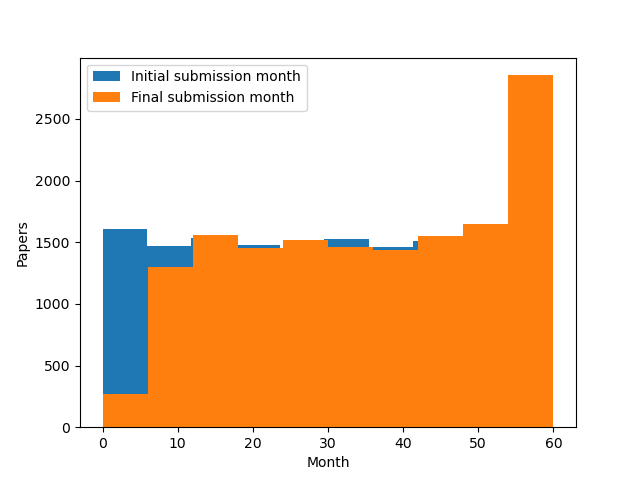
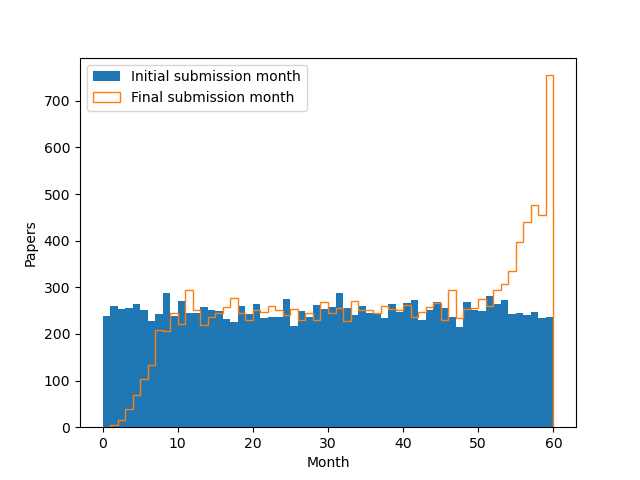
'update webpage'

diff --git a/static/blog/index.html b/static/blog/index.html
@@ -88,8 +88,8 @@ if __name__ == "__main__":
 
     initial, final = simulate()
 
-    plt.hist(initial, label="Initial submission month")
-    plt.hist(final, label="Final submission month")
+    plt.hist(initial, bins=end_month, range=(0, end_month), label="Initial submission month")
+    plt.hist(final, bins=end_month, range=(0, end_month), histtype="step", label="Final submission month")
     plt.legend()
     plt.xlabel("Month")
     plt.ylabel("Papers")
@@ -97,6 +97,7 @@ if __name__ == "__main__":
 </code>
 </pre>
 <p>Tags: <a href='tag_code.html'>code</a>, <a href='tag_ai.html'>ai</a>, <a href='tag_arxiv.html'>arxiv</a>, <a href='tag_statistics.html'>statistics</a></p>
+
 
 <!-- text end -->
 <h3><a class="ablack" href="mp3-player.html">
@@ -432,6 +433,7 @@ if __name__ == "__main__":
 
 
 <p>Tags: <a href='tag_mp3.html'>mp3</a>, <a href='tag_smartphone.html'>smartphone</a>, <a href='tag_podcasts.html'>podcasts</a>, <a href='tag_code.html'>code</a></p>
+
 
 
 

diff --git a/static/blog/tag_code.html b/static/blog/tag_code.html
@@ -88,8 +88,8 @@ if __name__ == "__main__":
 
     initial, final = simulate()
 
-    plt.hist(initial, label="Initial submission month")
-    plt.hist(final, label="Final submission month")
+    plt.hist(initial, bins=end_month, range=(0, end_month), label="Initial submission month")
+    plt.hist(final, bins=end_month, range=(0, end_month), histtype="step", label="Final submission month")
     plt.legend()
     plt.xlabel("Month")
     plt.ylabel("Papers")
@@ -97,6 +97,7 @@ if __name__ == "__main__":
 </code>
 </pre>
 <p>Tags: <a href='tag_code.html'>code</a>, <a href='tag_ai.html'>ai</a>, <a href='tag_arxiv.html'>arxiv</a>, <a href='tag_statistics.html'>statistics</a></p>
+
 
 <!-- text end -->
 <h3><a class="ablack" href="mp3-player.html">
@@ -432,6 +433,7 @@ if __name__ == "__main__":
 
 
 <p>Tags: <a href='tag_mp3.html'>mp3</a>, <a href='tag_smartphone.html'>smartphone</a>, <a href='tag_podcasts.html'>podcasts</a>, <a href='tag_code.html'>code</a></p>
+
 
 
 

diff --git a/static/blog/curious-trends-in-arxiv-submission-data.html b/static/blog/curious-trends-in-arxiv-submission-data.html
@@ -89,8 +89,8 @@ if __name__ == "__main__":
 
     initial, final = simulate()
 
-    plt.hist(initial, label="Initial submission month")
-    plt.hist(final, label="Final submission month")
+    plt.hist(initial, bins=end_month, range=(0, end_month), label="Initial submission month")
+    plt.hist(final, bins=end_month, range=(0, end_month), histtype="step", label="Final submission month")
     plt.legend()
     plt.xlabel("Month")
     plt.ylabel("Papers")
@@ -98,6 +98,7 @@ if __name__ == "__main__":
 </code>
 </pre>
 <p>Tags: <a href='tag_code.html'>code</a>, <a href='tag_ai.html'>ai</a>, <a href='tag_arxiv.html'>arxiv</a>, <a href='tag_statistics.html'>statistics</a></p>
+
 
 <!-- text end -->
 <!-- entry end -->

diff --git a/static/blog/tag_ai.html b/static/blog/tag_ai.html
@@ -88,8 +88,8 @@ if __name__ == "__main__":
 
     initial, final = simulate()
 
-    plt.hist(initial, label="Initial submission month")
-    plt.hist(final, label="Final submission month")
+    plt.hist(initial, bins=end_month, range=(0, end_month), label="Initial submission month")
+    plt.hist(final, bins=end_month, range=(0, end_month), histtype="step", label="Final submission month")
     plt.legend()
     plt.xlabel("Month")
     plt.ylabel("Papers")
@@ -97,6 +97,7 @@ if __name__ == "__main__":
 </code>
 </pre>
 <p>Tags: <a href='tag_code.html'>code</a>, <a href='tag_ai.html'>ai</a>, <a href='tag_arxiv.html'>arxiv</a>, <a href='tag_statistics.html'>statistics</a></p>
+
 
 <!-- text end -->
 </div>

diff --git a/static/blog/tag_arxiv.html b/static/blog/tag_arxiv.html
@@ -88,8 +88,8 @@ if __name__ == "__main__":
 
     initial, final = simulate()
 
-    plt.hist(initial, label="Initial submission month")
-    plt.hist(final, label="Final submission month")
+    plt.hist(initial, bins=end_month, range=(0, end_month), label="Initial submission month")
+    plt.hist(final, bins=end_month, range=(0, end_month), histtype="step", label="Final submission month")
     plt.legend()
     plt.xlabel("Month")
     plt.ylabel("Papers")
@@ -97,6 +97,7 @@ if __name__ == "__main__":
 </code>
 </pre>
 <p>Tags: <a href='tag_code.html'>code</a>, <a href='tag_ai.html'>ai</a>, <a href='tag_arxiv.html'>arxiv</a>, <a href='tag_statistics.html'>statistics</a></p>
+
 
 <!-- text end -->
 </div>

diff --git a/static/blog/tag_statistics.html b/static/blog/tag_statistics.html
@@ -88,8 +88,8 @@ if __name__ == "__main__":
 
     initial, final = simulate()
 
-    plt.hist(initial, label="Initial submission month")
-    plt.hist(final, label="Final submission month")
+    plt.hist(initial, bins=end_month, range=(0, end_month), label="Initial submission month")
+    plt.hist(final, bins=end_month, range=(0, end_month), histtype="step", label="Final submission month")
     plt.legend()
     plt.xlabel("Month")
     plt.ylabel("Papers")
@@ -97,6 +97,7 @@ if __name__ == "__main__":
 </code>
 </pre>
 <p>Tags: <a href='tag_code.html'>code</a>, <a href='tag_ai.html'>ai</a>, <a href='tag_arxiv.html'>arxiv</a>, <a href='tag_statistics.html'>statistics</a></p>
+
 
 <!-- text end -->
 </div>

diff --git a/static/blog/all_posts.html b/static/blog/all_posts.html
@@ -15,7 +15,7 @@
 <h4 class='allposts_header'>February 2026</h4>
 <ul>
 <li><a href="./curious-trends-in-arxiv-submission-data.html">Curious trends in arXiv submission data</a> &mdash; February 26, 2026</li>
-<li><a href="./mp3-player.html">mp3 player</a> &mdash; February 26, 2026</li>
+<li><a href="./mp3-player.html">mp3 player</a> &mdash; February 25, 2026</li>
 </ul>
 <div id="all_posts"><a href="./index.html">Back to the index page</a></div>
 </div>

diff --git a/static/blog/mp3-player.html b/static/blog/mp3-player.html
@@ -349,6 +349,7 @@ if __name__ == "__main__":
 
 
 
+
 <!-- text end -->
 <!-- entry end -->
 </div>

diff --git a/static/blog/tag_mp3.html b/static/blog/tag_mp3.html
@@ -348,6 +348,7 @@ if __name__ == "__main__":
 
 
 
+
 <!-- text end -->
 </div>
 </div></div>

diff --git a/static/blog/tag_podcasts.html b/static/blog/tag_podcasts.html
@@ -348,6 +348,7 @@ if __name__ == "__main__":
 
 
 
+
 <!-- text end -->
 </div>
 </div></div>

diff --git a/static/blog/tag_smartphone.html b/static/blog/tag_smartphone.html
@@ -348,6 +348,7 @@ if __name__ == "__main__":
 
 
 
+
 <!-- text end -->
 </div>
 </div></div>
